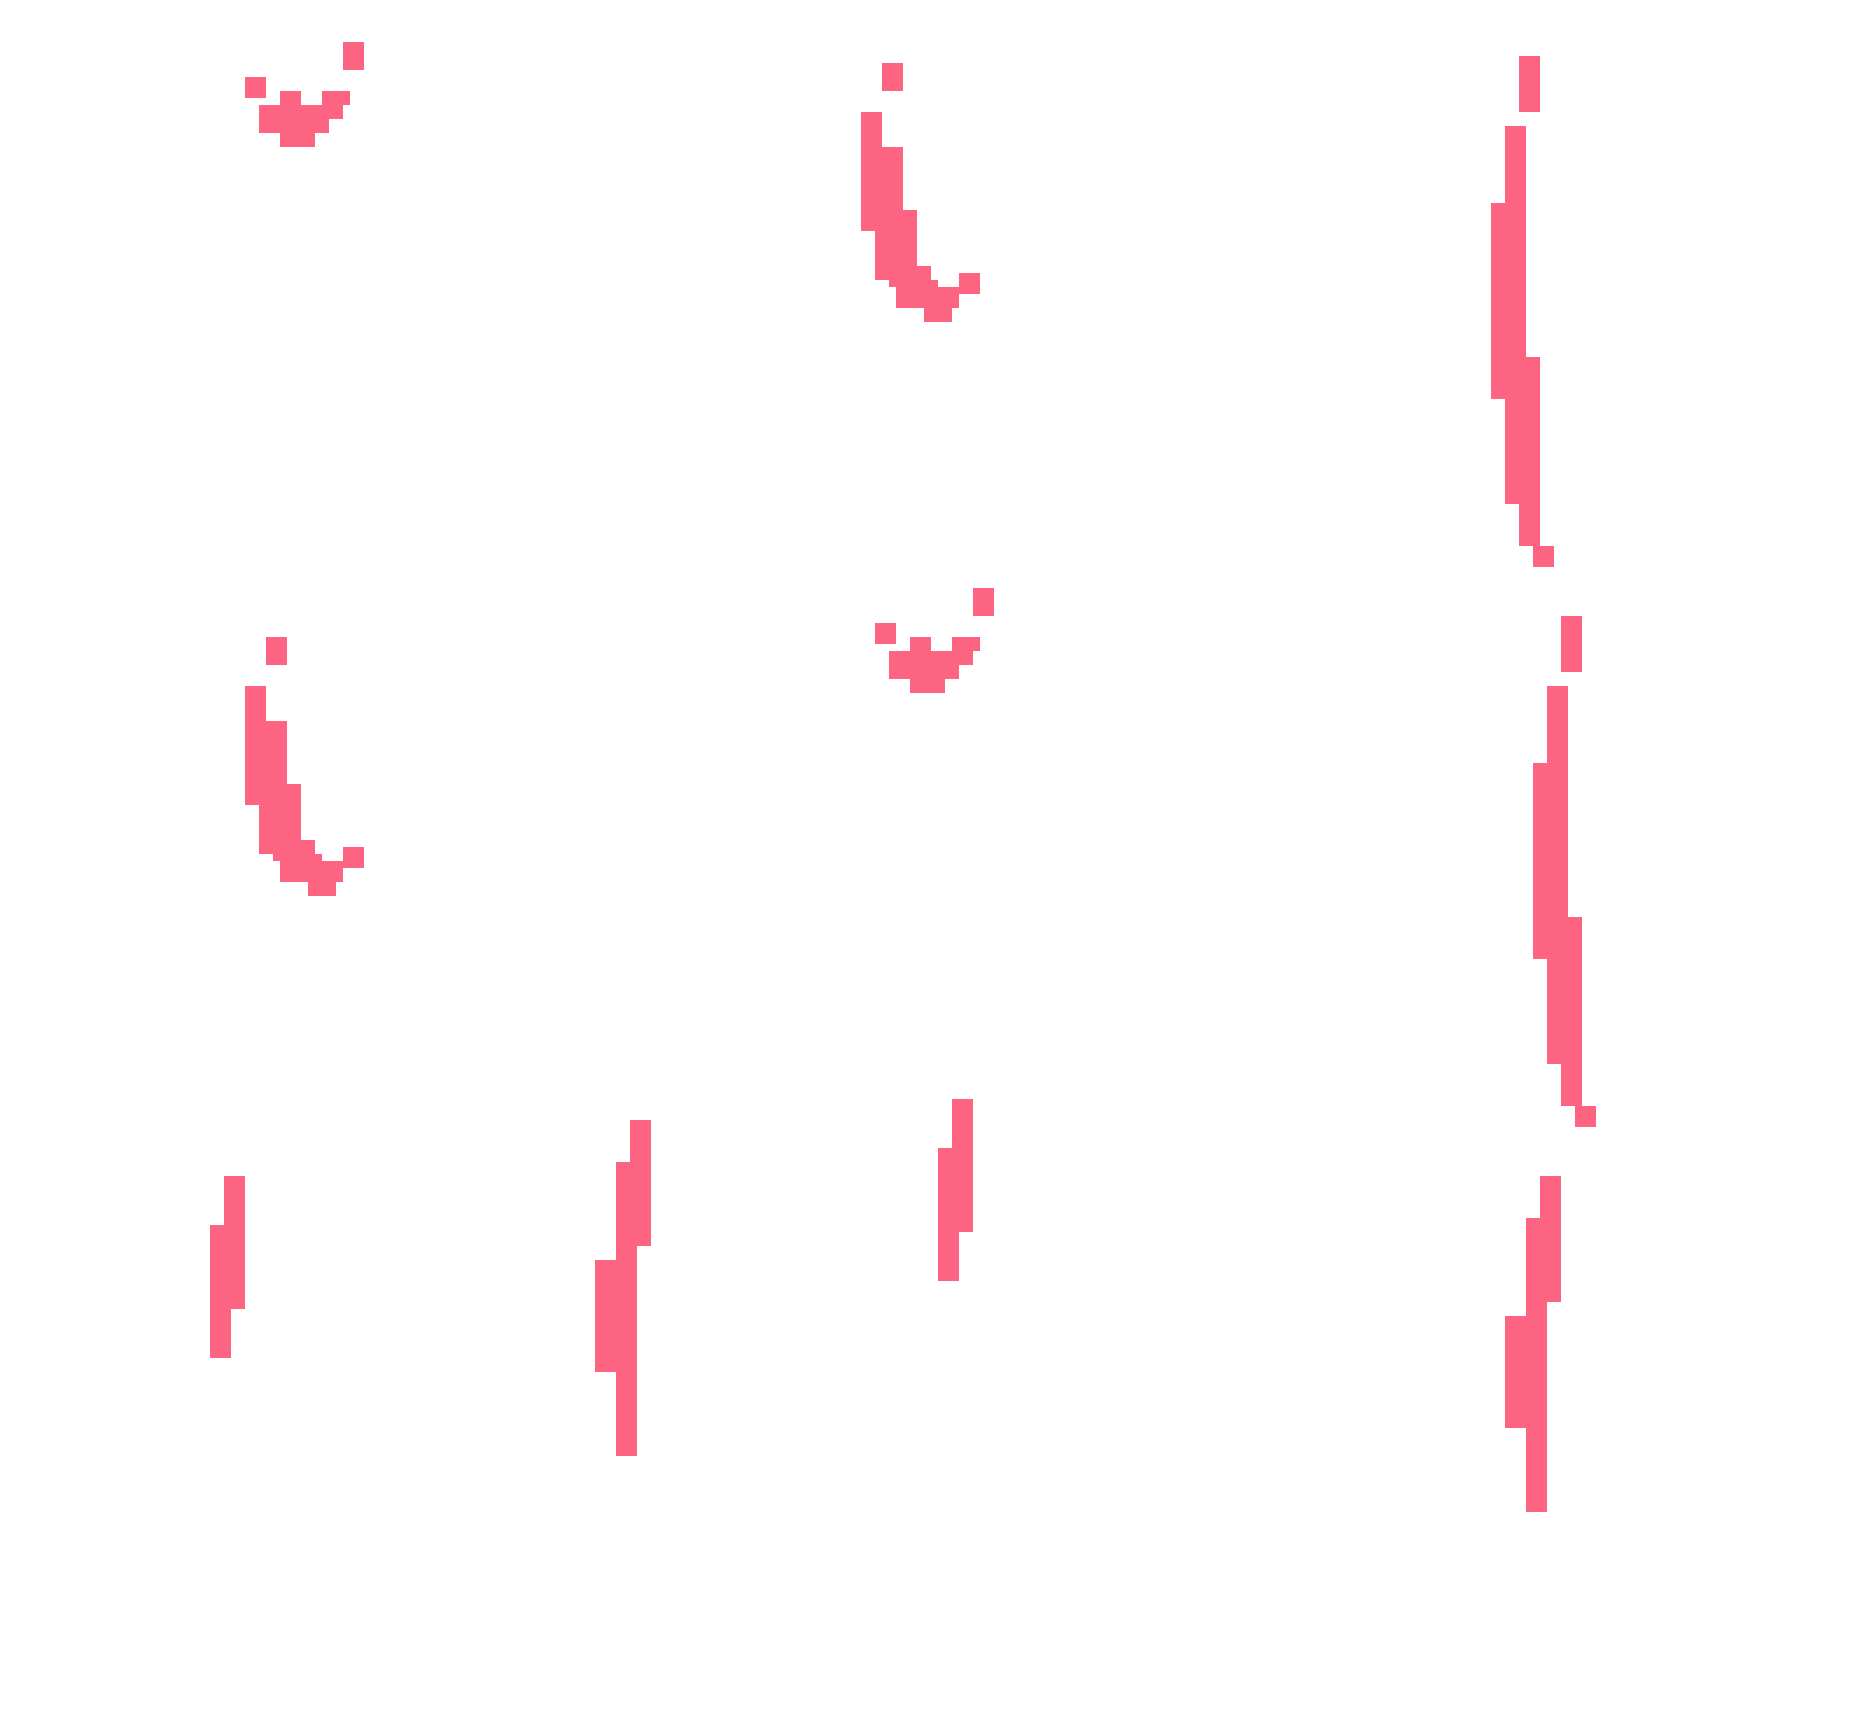
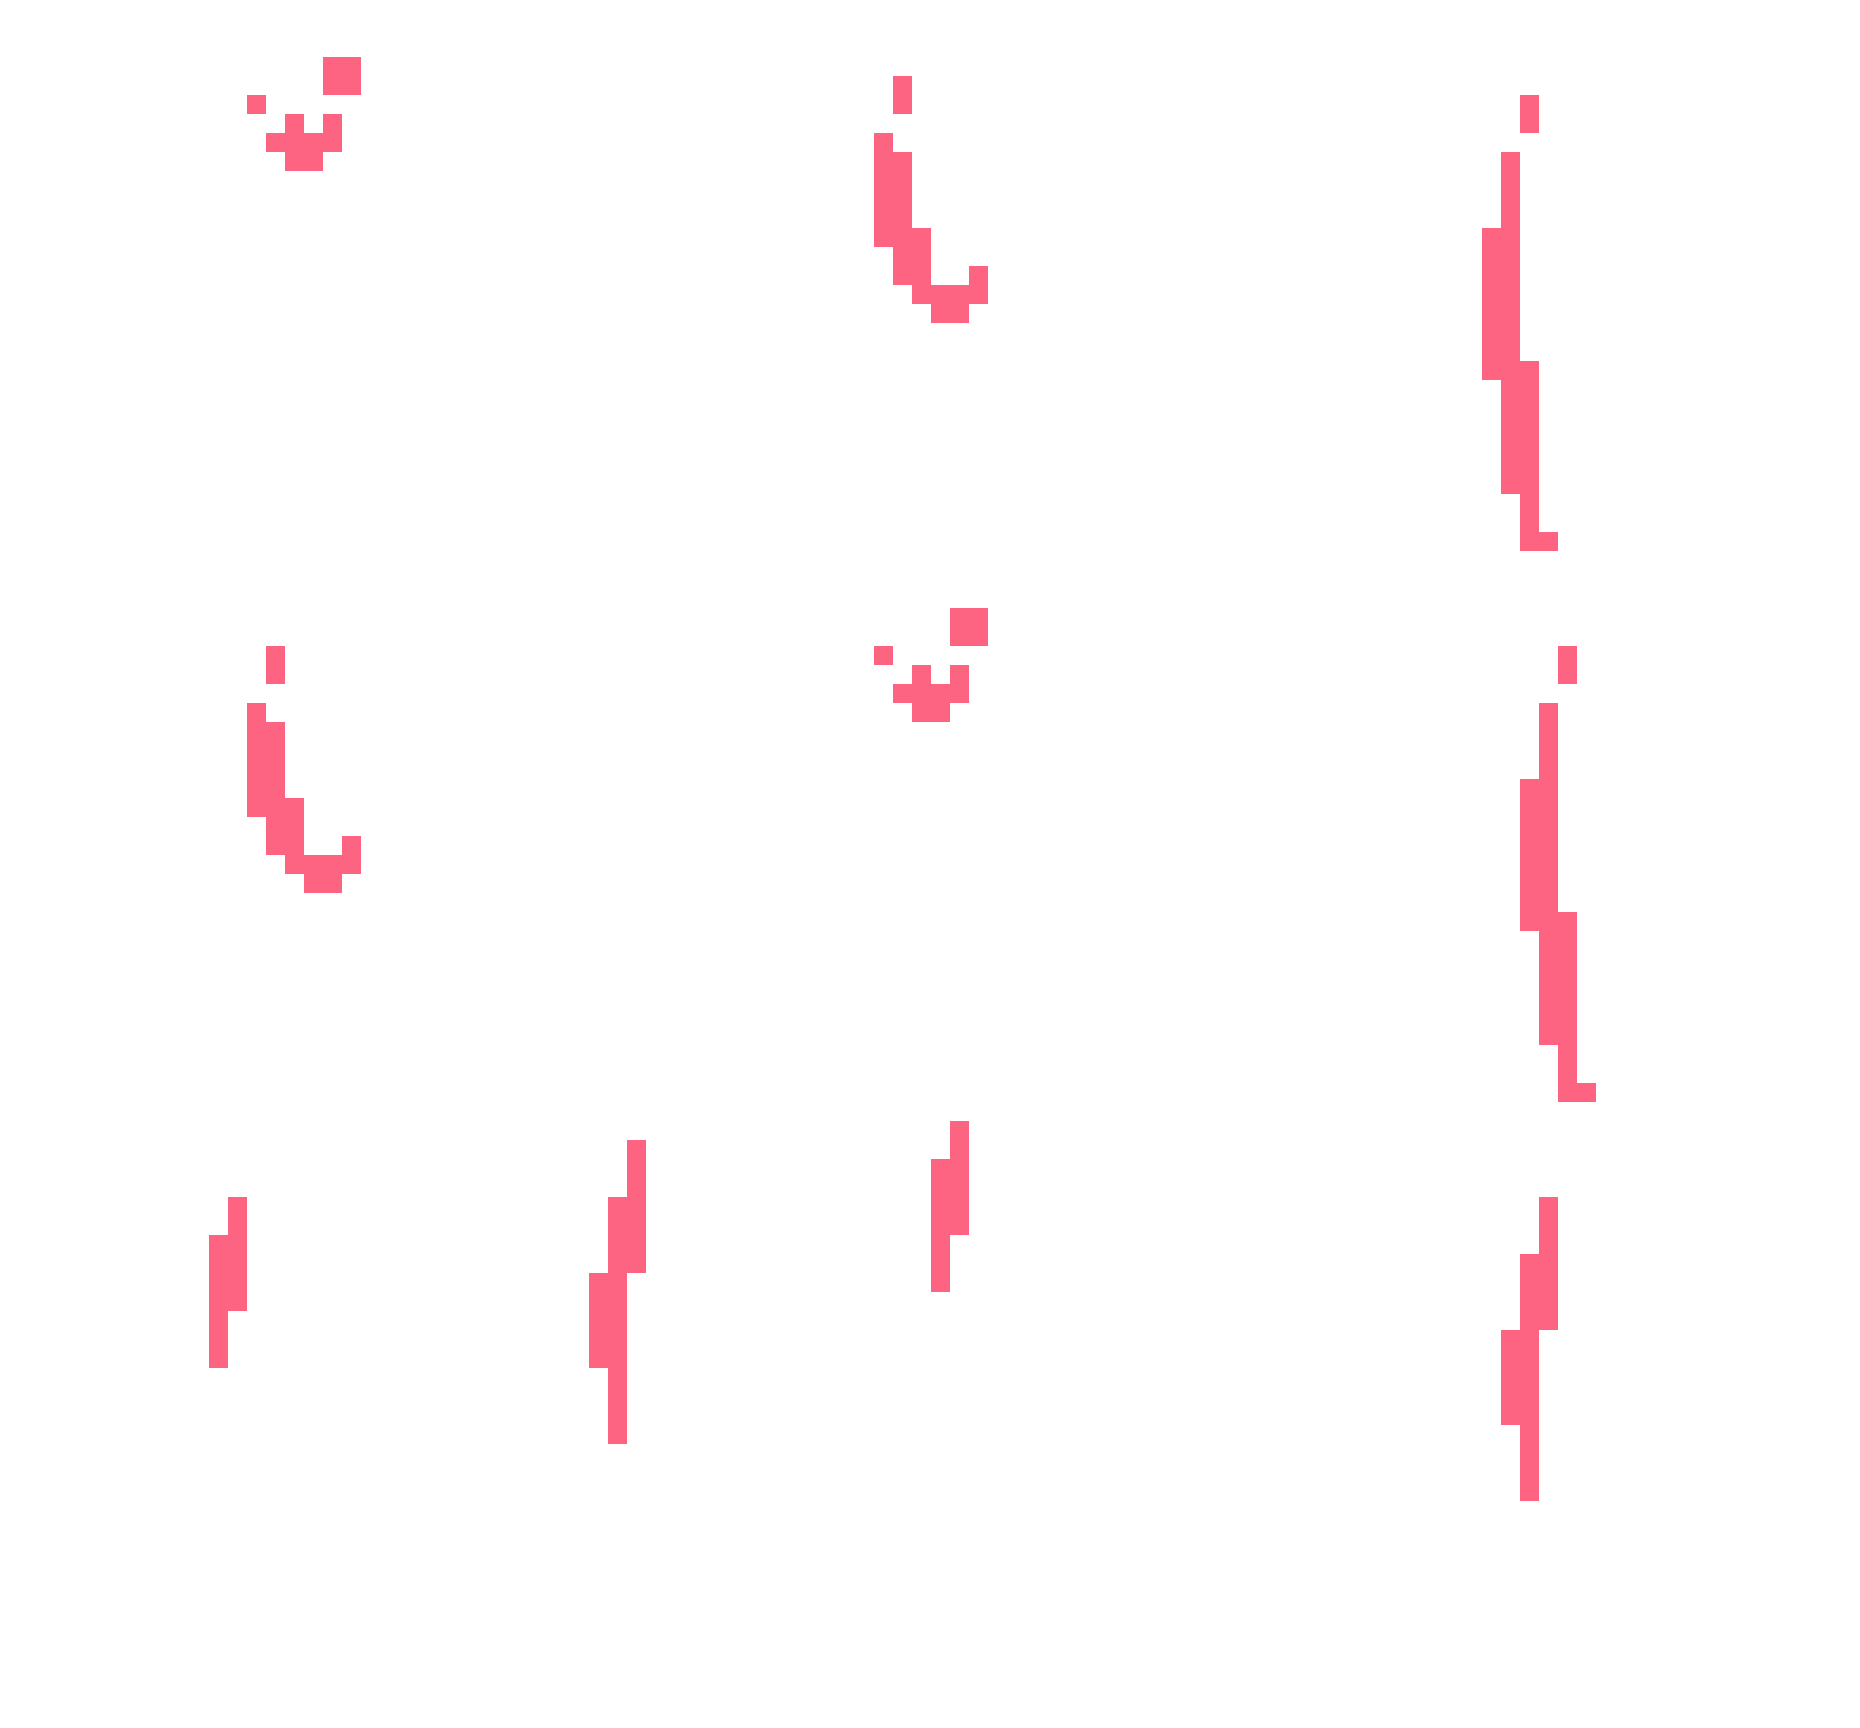
Redraw the slash on a 6x25 grid for much larger pixels
Was 17x74, which landed 7px blocks on a sheet frame and read as a smooth
shape with steps rather than as pixel art. Redrew all five frames a third
coarser in each axis, so one art pixel now lands about 19px square on the
same frames.

Each frame was redrawn by hand rather than downsampled: at this size a stroke
is one or two pixels wide, so the drift, the swell and the break in each
stroke had to be placed deliberately to survive. Frame 3's tail steps right
across two pixels so it stays joined to the stroke; frame 4's broken-off piece
keeps a clear pixel of gap before the hook closes on it; frame 5's specks are
single pixels, which is now a legitimate shape rather than a stray.

The lone-pixel test could not stay as it was, since single-pixel runs are the
point at this size. It now pins how many pixels stand alone per frame, so a
stray still shows up, and a new test pins that the grid stays coarse enough to
give blocks this big.

Claude-Session: https://claude.ai/code/session_01F6KpCQchDjXcyJobUKVZFa

diff --git a/tools/slash-sheet/slash.js b/tools/slash-sheet/slash.js
@@ -7,12 +7,17 @@
  * specks.
  *
  * Those strokes were traced out of the screenshot first, and this art was then
- * redrawn from the traces by hand on a grid at half their resolution. The
+ * redrawn from the traces by hand, on a grid a sixth of their resolution. The
  * trace itself could not be used as art: the screenshot is a resized JPEG, so
  * its edges carry a pixel of wobble that reads as fuzz rather than as pixel
- * art. Redrawing squares that off -- every frame here is a stack of solid
- * rectangles, so every edge is a clean step and every run is deliberate --
- * while keeping each stroke's silhouette, its steps, and the gaps in it.
+ * art, and its resolution is far finer than pixel art wants. Redrawing on a
+ * coarse grid fixes both -- every frame here is a stack of solid rectangles,
+ * so every edge is a clean step and every run is deliberate -- while keeping
+ * each stroke's silhouette, its steps, and the gaps in it.
+ *
+ * At this size a stroke is one or two pixels wide and a speck is a single
+ * pixel, which is the point: on a sheet frame around 530px across each pixel
+ * lands about 19px square.
  *
  * Frames keep the top edge they had in the strip -- they all hang from the
  * same blade edge, and frames 4 and 5 start lower than the rest because that
@@ -23,8 +28,8 @@
  */
 
 /** Grid the frames are drawn on, in art pixels. */
-export const WIDTH = 17;
-export const HEIGHT = 74;
+export const WIDTH = 6;
+export const HEIGHT = 25;
 
 /** The stroke's colour, sampled from the middle of the strokes themselves. */
 export const COLOR = { r: 0xfd, g: 0x64, b: 0x81, a: 0xff };
@@ -34,53 +39,48 @@ const FRAMES = [
   // 1. The stab: a short stroke that swells in the middle and steps left as it
   //    tapers off.
   [
-    [0, 6, 8, 10],
-    [7, 18, 6, 10],
-    [19, 25, 6, 8],
+    [0, 1, 3, 3],
+    [2, 5, 2, 3],
+    [6, 8, 2, 2],
   ],
   // 2. Drawn out to twice the length, with the same swell and a wider step.
   [
-    [1, 6, 9, 11],
-    [7, 18, 7, 11],
-    [19, 20, 7, 9],
-    [21, 36, 4, 9],
-    [37, 48, 7, 9],
+    [0, 2, 3, 3],
+    [3, 6, 2, 3],
+    [7, 11, 1, 2],
+    [12, 15, 2, 2],
   ],
   // 3. Full length: the tip has torn away from the stroke, which drifts right
   //    down its length and trails off in two steps.
   [
-    [1, 8, 8, 10],
-    [11, 21, 6, 8],
-    [22, 43, 4, 8],
-    [44, 49, 4, 10],
-    [50, 64, 6, 10],
-    [65, 70, 8, 10],
-    [71, 73, 10, 12],
+    [1, 2, 3, 3],
+    [4, 7, 2, 2],
+    [8, 14, 1, 2],
+    [15, 15, 1, 3],
+    [16, 21, 2, 3],
+    [22, 23, 3, 3],
+    [24, 24, 3, 4],
   ],
   // 4. The curl: the stroke thickens, bends right into a hook, and meets a
   //    piece that has broken off ahead of it.
   [
-    [4, 7, 3, 5],
-    [11, 15, 0, 2],
-    [16, 24, 0, 5],
-    [25, 27, 0, 7],
-    [28, 32, 2, 7],
-    [33, 34, 2, 9],
-    [35, 35, 4, 10],
-    [34, 35, 14, 16],
-    [36, 36, 5, 16],
-    [37, 38, 5, 13],
-    [39, 40, 9, 12],
+    [1, 2, 1, 1],
+    [4, 4, 0, 0],
+    [5, 8, 0, 1],
+    [9, 9, 0, 2],
+    [10, 11, 1, 2],
+    [11, 11, 5, 5],
+    [12, 12, 2, 5],
+    [13, 13, 3, 4],
   ],
   // 5. Broken up: specks either side of what is left of the curl.
   [
-    [1, 4, 14, 16],
-    [6, 8, 0, 2],
-    [8, 9, 5, 7],
-    [8, 9, 11, 14],
-    [10, 11, 2, 13],
-    [12, 13, 2, 11],
-    [14, 15, 5, 9],
+    [0, 1, 4, 5],
+    [2, 2, 0, 0],
+    [3, 3, 2, 2],
+    [3, 3, 4, 4],
+    [4, 4, 1, 4],
+    [5, 5, 2, 3],
   ],
 ];
 

diff --git a/test/slashSheet.test.js b/test/slashSheet.test.js
@@ -58,22 +58,34 @@ test('the drawn frames hold the ink they were drawn with', () => {
   // The strip's five strokes, in the order they play. Guards the rectangles
   // against an edit that silently drops or duplicates part of a frame.
   const ink = frameMasks().map((mask) => mask.reduce((total, on) => total + on, 0));
-  assert.deepEqual(ink, [102, 216, 311, 202, 89]);
+  assert.deepEqual(ink, [13, 25, 39, 25, 13]);
 });
 
-test('every frame is drawn as clean rectangles, with no stray single pixels', () => {
-  // Pixel art, not a trace: every run is at least two wide and two tall, so no
-  // edge can carry the single-pixel wobble the screenshot's JPEG edges had.
-  frameMasks().forEach((mask, frame) => {
+test('the art has exactly the lone pixels it means to have', () => {
+  // The grid is coarse enough that a stroke is one or two pixels wide, so a
+  // pixel standing alone is no longer proof of a stray -- frame 5 breaks up
+  // into specks and one of them is meant to be a single pixel. Pinning the
+  // count per frame still catches a stray introduced by an edit.
+  const lone = frameMasks().map((mask) => {
     const on = (x, y) => (x < 0 || y < 0 || x >= WIDTH || y >= HEIGHT ? 0 : mask[y * WIDTH + x]);
+    let count = 0;
     for (let y = 0; y < HEIGHT; y++) {
       for (let x = 0; x < WIDTH; x++) {
         if (!on(x, y)) continue;
-        assert.ok(on(x - 1, y) || on(x + 1, y), `frame ${frame + 1}: lone pixel column at ${x},${y}`);
-        assert.ok(on(x, y - 1) || on(x, y + 1), `frame ${frame + 1}: lone pixel row at ${x},${y}`);
+        if (!on(x - 1, y) && !on(x + 1, y) && !on(x, y - 1) && !on(x, y + 1)) count++;
       }
     }
+    return count;
   });
+  assert.deepEqual(lone, [0, 0, 0, 0, 1]);
+});
+
+test('the grid is coarse enough that a sheet frame gets big blocks', () => {
+  // What makes it read as pixel art: on a frame the size of the ones on
+  // PlayerExplosion_03-uhd.png, one art pixel is a chunky block, not a speck.
+  const frameSize = 530;
+  const scale = Math.floor((0.9 * frameSize) / HEIGHT);
+  assert.ok(scale >= 15, `art pixels would land at only ${scale}px on a ${frameSize}px frame`);
 });
 
 test('frames spread over a sheet without ever going backwards', () => {

diff --git a/tools/slash-sheet/README.md b/tools/slash-sheet/README.md
@@ -19,17 +19,23 @@ frame, playing left to right. The stroke stabs in short, draws out longer over
 the next two frames, curls into a hook, then breaks apart into specks.
 
 Those strokes were traced out of the screenshot first, and `slash.js` was then
-redrawn from the traces by hand on a grid at half their resolution, 17x74. The
-trace itself could not be used as art: the screenshot is a resized JPEG, so its
-edges carry a pixel of wobble that reads as fuzz rather than as pixel art.
-Redrawing squares that off — every frame is a stack of solid rectangles, so
-every edge is a clean step and every run is deliberate — while keeping each
-stroke's silhouette, its steps, and the gaps in it. Against the trace the
-redraw scores 0.91 IoU, the difference being tapers squared off to the grid.
+redrawn from the traces by hand on a 6x25 grid, a sixth of their resolution.
+The trace itself could not be used as art on two counts: the screenshot is a
+resized JPEG, so its edges carry a pixel of wobble that reads as fuzz, and its
+resolution is far finer than pixel art wants. Redrawing on a coarse grid fixes
+both — every frame is a stack of solid rectangles, so every edge is a clean
+step and every run is deliberate — while keeping each stroke's silhouette, its
+steps and its gaps.
+
+At this size a stroke is one or two pixels wide and a speck is a single pixel,
+which is the point: on a sheet frame around 530px across, one art pixel lands
+about 19px square.
 
 `npm test` pins the per-frame ink counts, so an edit to the rectangles cannot
-silently drop or duplicate part of a frame, and checks that no pixel stands
-alone in its row or column — the property that makes the art crisp.
+silently drop or duplicate part of a frame; pins how many pixels stand alone
+(frame 5 breaks into specks and one is meant to be a single pixel, so a stray
+elsewhere shows up as a change); and checks the grid stays coarse enough for
+blocks this size.
 
 Colour is `#fd6481`, sampled from the middle of the strokes.
 
